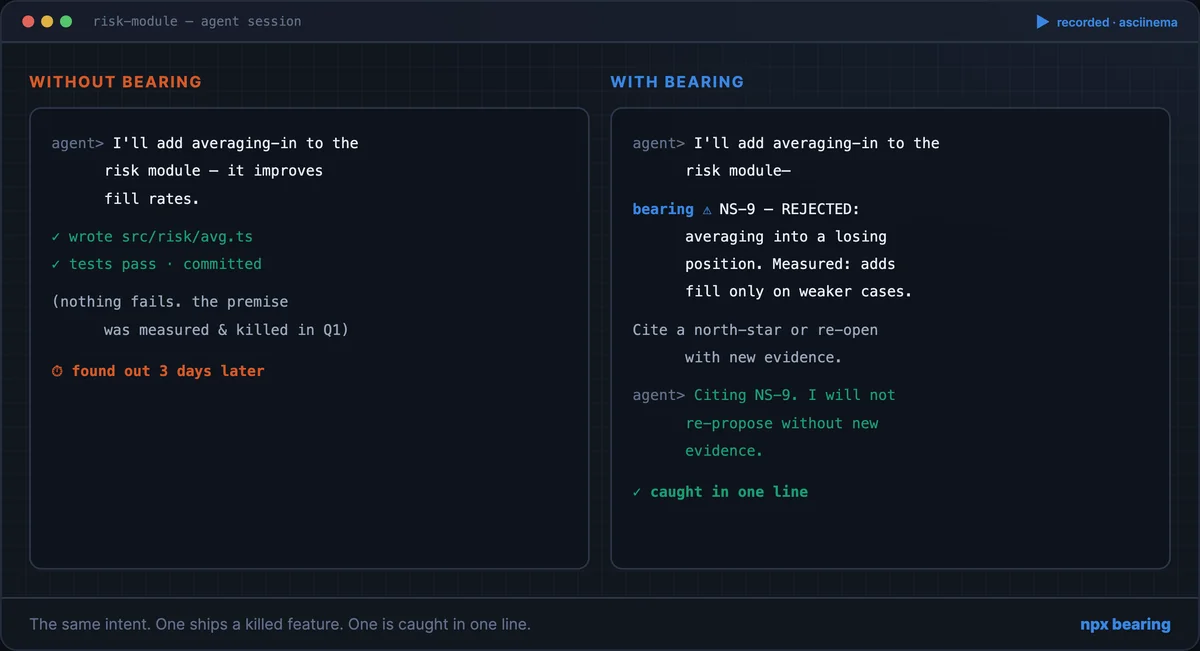
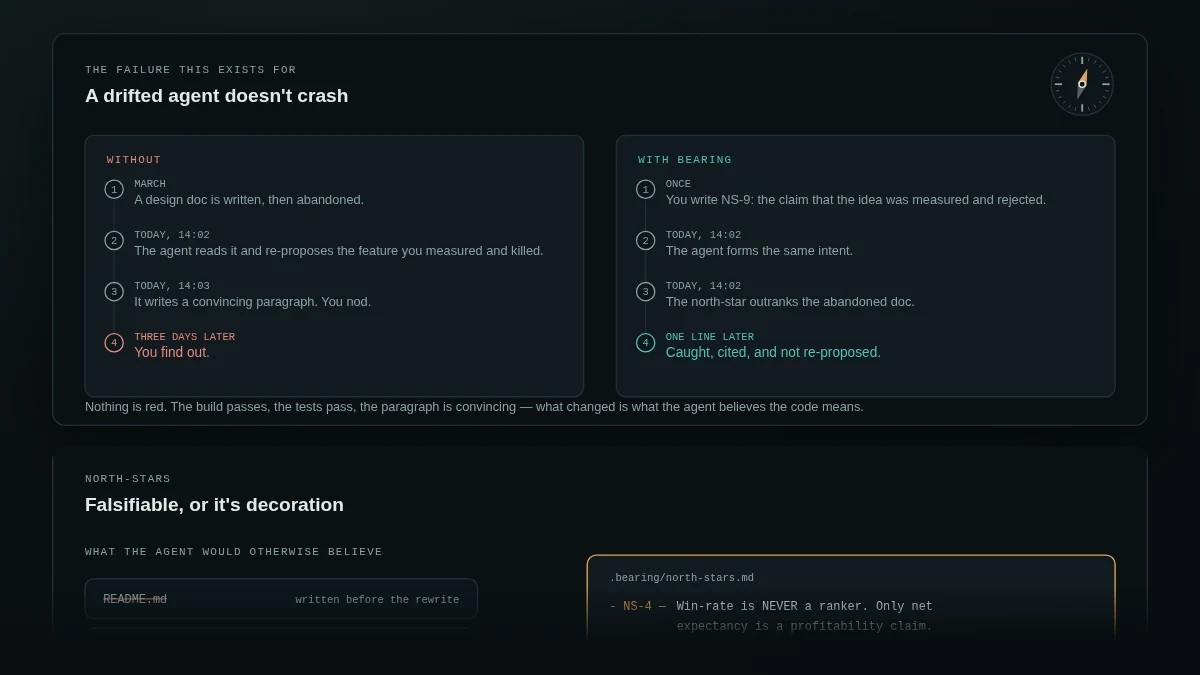
bearing and whiz wear their own designs on the hub
Both cards still carried art from before their pages were redesigned:
bearing a blue terminal mock-up, whiz a drawn terminal in the same old
language. They now use the figures from the redesigned pages — bearing's
drift timelines with the dial and a strip of the north-stars panel, whiz's
waveform coloured by speaker with its filmstrip and the transcript it
wrote — composed at the 16:9 the cards and the hero fan both want, with
the lower panel faded out rather than cut mid-row.

The drawn terminal's CSS went with it rather than sitting unused.

Claude-Session: https://claude.ai/code/session_019yo64P8KJNrR6aGx5oYCTz

diff --git a/index.html b/index.html
@@ -207,15 +207,6 @@
   .flag > img { width: 100%; height: auto; aspect-ratio: 16 / 9; object-fit: cover; border-bottom: 1px solid var(--rule); }
   .flag-body { padding: 20px 22px 22px; display: grid; gap: 12px; align-content: start; }
   .flag-body h3 { font: 650 clamp(1.7rem, 3vw, 2.3rem)/1 var(--display); letter-spacing: -.025em; margin: 4px 0 2px; }
-  .term { aspect-ratio: 16 / 9; background: #0d1117; display: grid; align-items: center; padding: 14px 20px; border-bottom: 1px solid var(--rule); }
-  .term pre { margin: 0; font: clamp(10px, 1.05vw, 13px)/1.5 var(--mono); color: #d7dde3; white-space: pre; overflow: hidden; }
-  .t-dim { color: #7d8590; }
-  .t-accent { color: #f2b441; }
-  .t-ok { color: #5cc08a; }
-  .t-a { color: #58a6ff; }
-  .t-b { color: #f0877d; }
-  .t-c { color: #d2a8ff; }
-  .t-d { color: #56d4dd; }
   /* PenguID: text beside the same animated penguin as its own page, starting mid-scan so the resting frame is amber. */
   /* Mynah: the PenguID block mirrored, in the bird's own jet and saffron. */
   .my { margin-top: 18px; border-radius: 16px; overflow: hidden; border: 1px solid color-mix(in oklab, #F5B301 32%, var(--rule)); background: var(--surface); display: grid; grid-template-columns: minmax(0, 1fr); grid-template-areas: "art" "body"; }
@@ -333,7 +324,7 @@
     </ul>
   </div>
   <div class="fan" aria-hidden="true">
-    <img src="assets/flagships/bearing.webp" alt="" width="1200" height="651">
+    <img src="assets/flagships/bearing.webp" alt="" width="1200" height="675">
     <img src="assets/flagships/event-horizon-plan.webp" alt="" width="1120" height="552">
     <div class="fan-penguid">
       <span class="art-name">Pengu<span>ID</span></span>
@@ -404,7 +395,7 @@
 
   <div class="duo">
     <article class="flag">
-      <img src="assets/flagships/bearing.webp" alt="The same intent without and with bearing: one ships a feature that was already measured and killed, the other is caught in one line" width="1200" height="651" loading="lazy">
+      <img src="assets/flagships/bearing.webp" alt="The same intent without and with bearing: one ships a feature that was already measured and killed, the other is caught in one line" width="1200" height="675" loading="lazy">
       <div class="flag-body">
         <p class="label">AI coding agents · npm</p>
         <h3>bearing</h3>
@@ -424,18 +415,7 @@
       </div>
     </article>
     <article class="flag">
-      <div class="term" role="img" aria-label="whiz in a terminal: four speakers detected, then an HTML transcript written">
-<pre><span class="t-dim">$</span> whiz transcribe recording.mov
-<span class="t-accent">▸ diarizing</span>
-Speakers  4 detected
-    <span class="t-a">●</span> Alice  181 segments
-    <span class="t-b">●</span> Bob    152 segments
-    <span class="t-c">●</span> Carol   12 segments
-    <span class="t-d">●</span> Dave     6 segments
-<span class="t-accent">▸ writing HTML transcript</span>
-  <span class="t-ok">✓</span> Wrote HTML transcript
-    recording.speakers.html</pre>
-      </div>
+      <img src="assets/flagships/whiz.webp" alt="whiz: a recording's waveform coloured by speaker, the frames it captured, and the transcript it wrote" width="1200" height="675" loading="lazy">
       <div class="flag-body">
         <p class="label">Transcription · CLI</p>
         <h3>whiz</h3>
